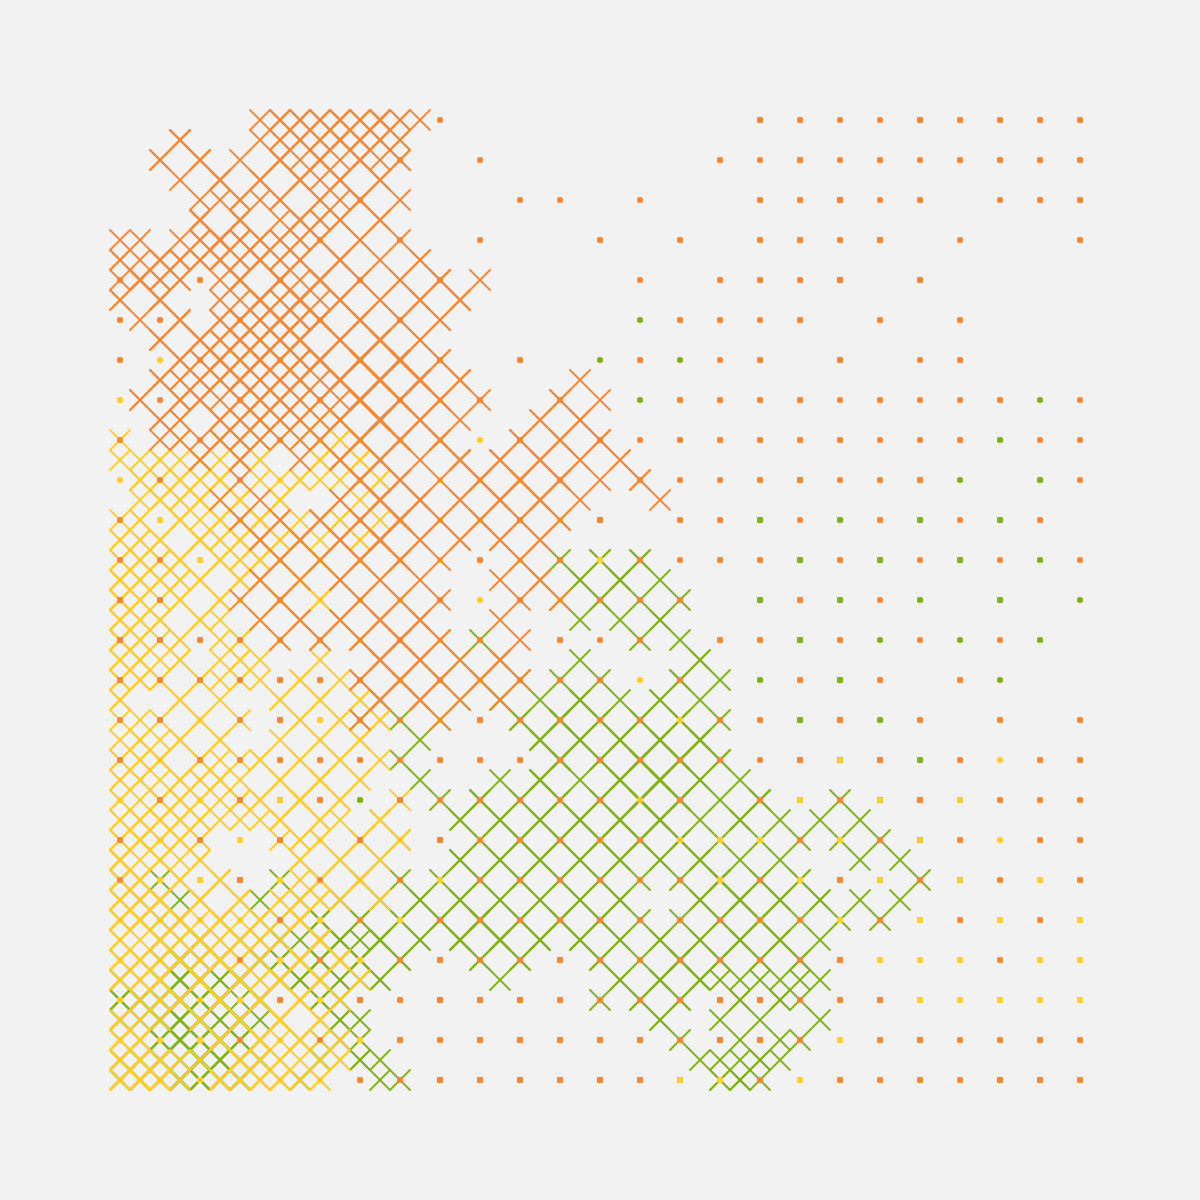
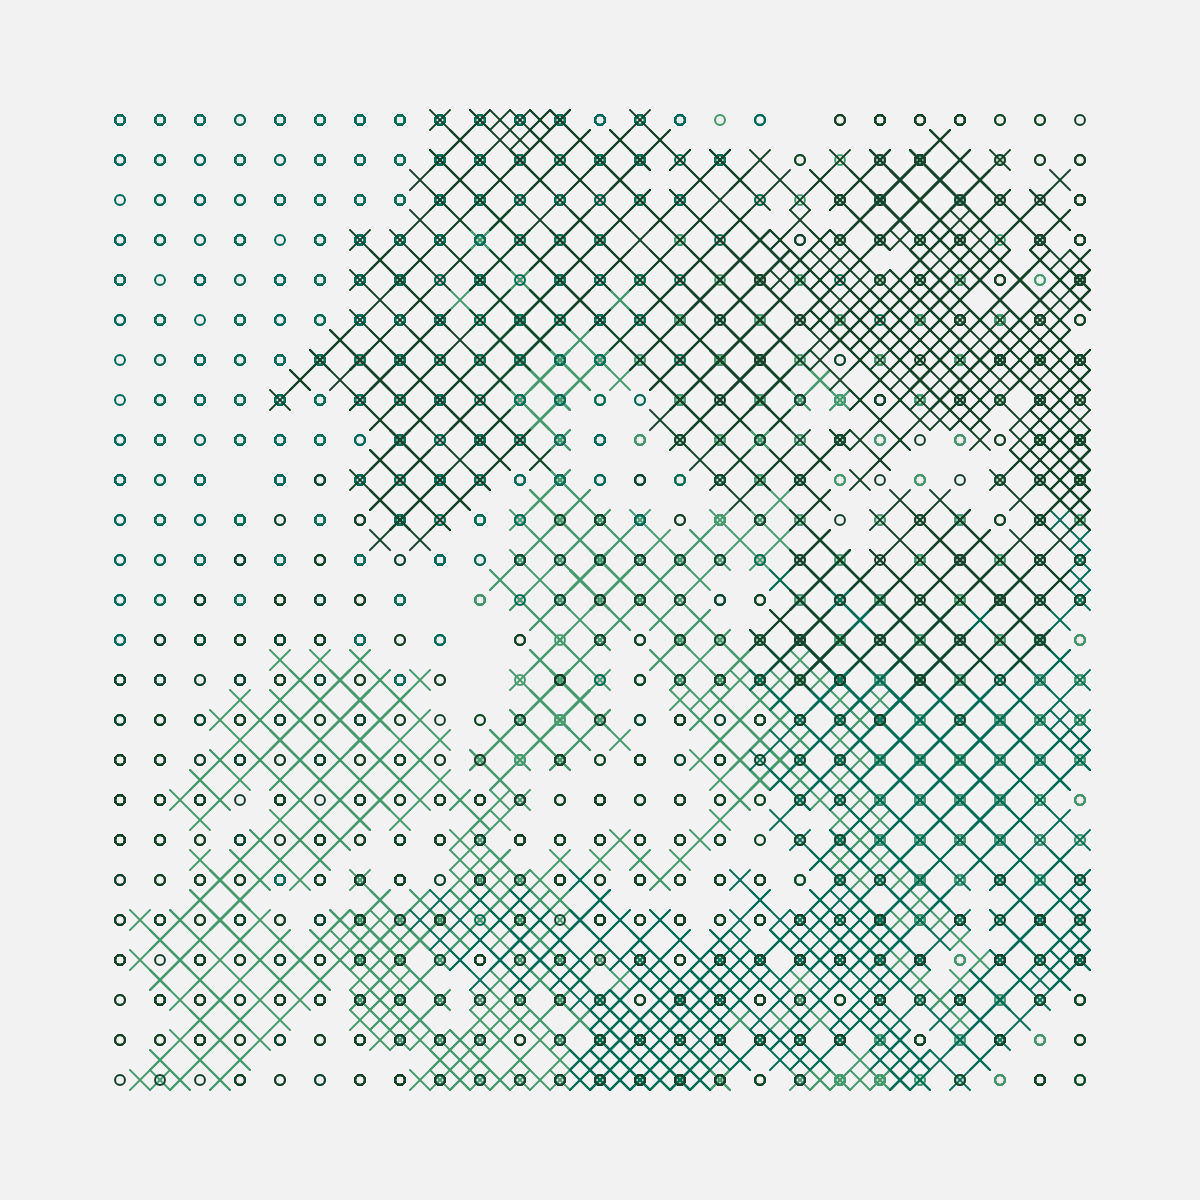
minor fix and replace images

Changed region(s): [[0.0925, 0.0925, 0.925, 0.925]]

diff --git a/works/20211124_2/js/sketch.js b/works/20211124_2/js/sketch.js
@@ -1,7 +1,7 @@
 // カラーパレット
 let cp1 = ['#81b214', '#ffcc29', '#f58634'];
 let cp2 = ['#e24507', '#a22e8a', '#f3c800'];
-let cp3 = ['#f1bd4c', '#a43121', '#dc5f45'];
+let cp3 = ['#82add9', '#5f7c9e', '#8599b3'];
 let cp4 = ['#45996c', '#006b56', '#154228'];
 let colorPalette = [cp1, cp2, cp3, cp4];
 let colors;
@@ -10,7 +10,7 @@ let pointer;
 let cross;
 
 let count = 3;
-let reps = 1000;
+let reps = 2000;
 
 function setup() {
     createCanvas(600, 600);
@@ -22,14 +22,16 @@ function setup() {
     cc = random(colors);
     bc = random(colors);
 
+    reps = floor(random(1000, 3000))
     translate(width/2, height/2)
     for (let j = 0; j < count; j ++){
         for (let i = 0; i < reps; i ++){
-            stroke(colors[j])
+            stroke(colors[j]);
+            noFill();
             pointer.step();
             pointer.render();
             
-            stroke(colors[j])
+            stroke(colors[j]);
             cross.step();
             cross.render();
         }
@@ -43,8 +45,9 @@ class Pointer {
     }
 
     render() {
-    strokeWeight(3)
-    point(this.x, this.y);
+    strokeWeight(1)
+    // point(this.x, this.y);
+    ellipse(this.x, this.y, 5);
     }
 
     step() {
